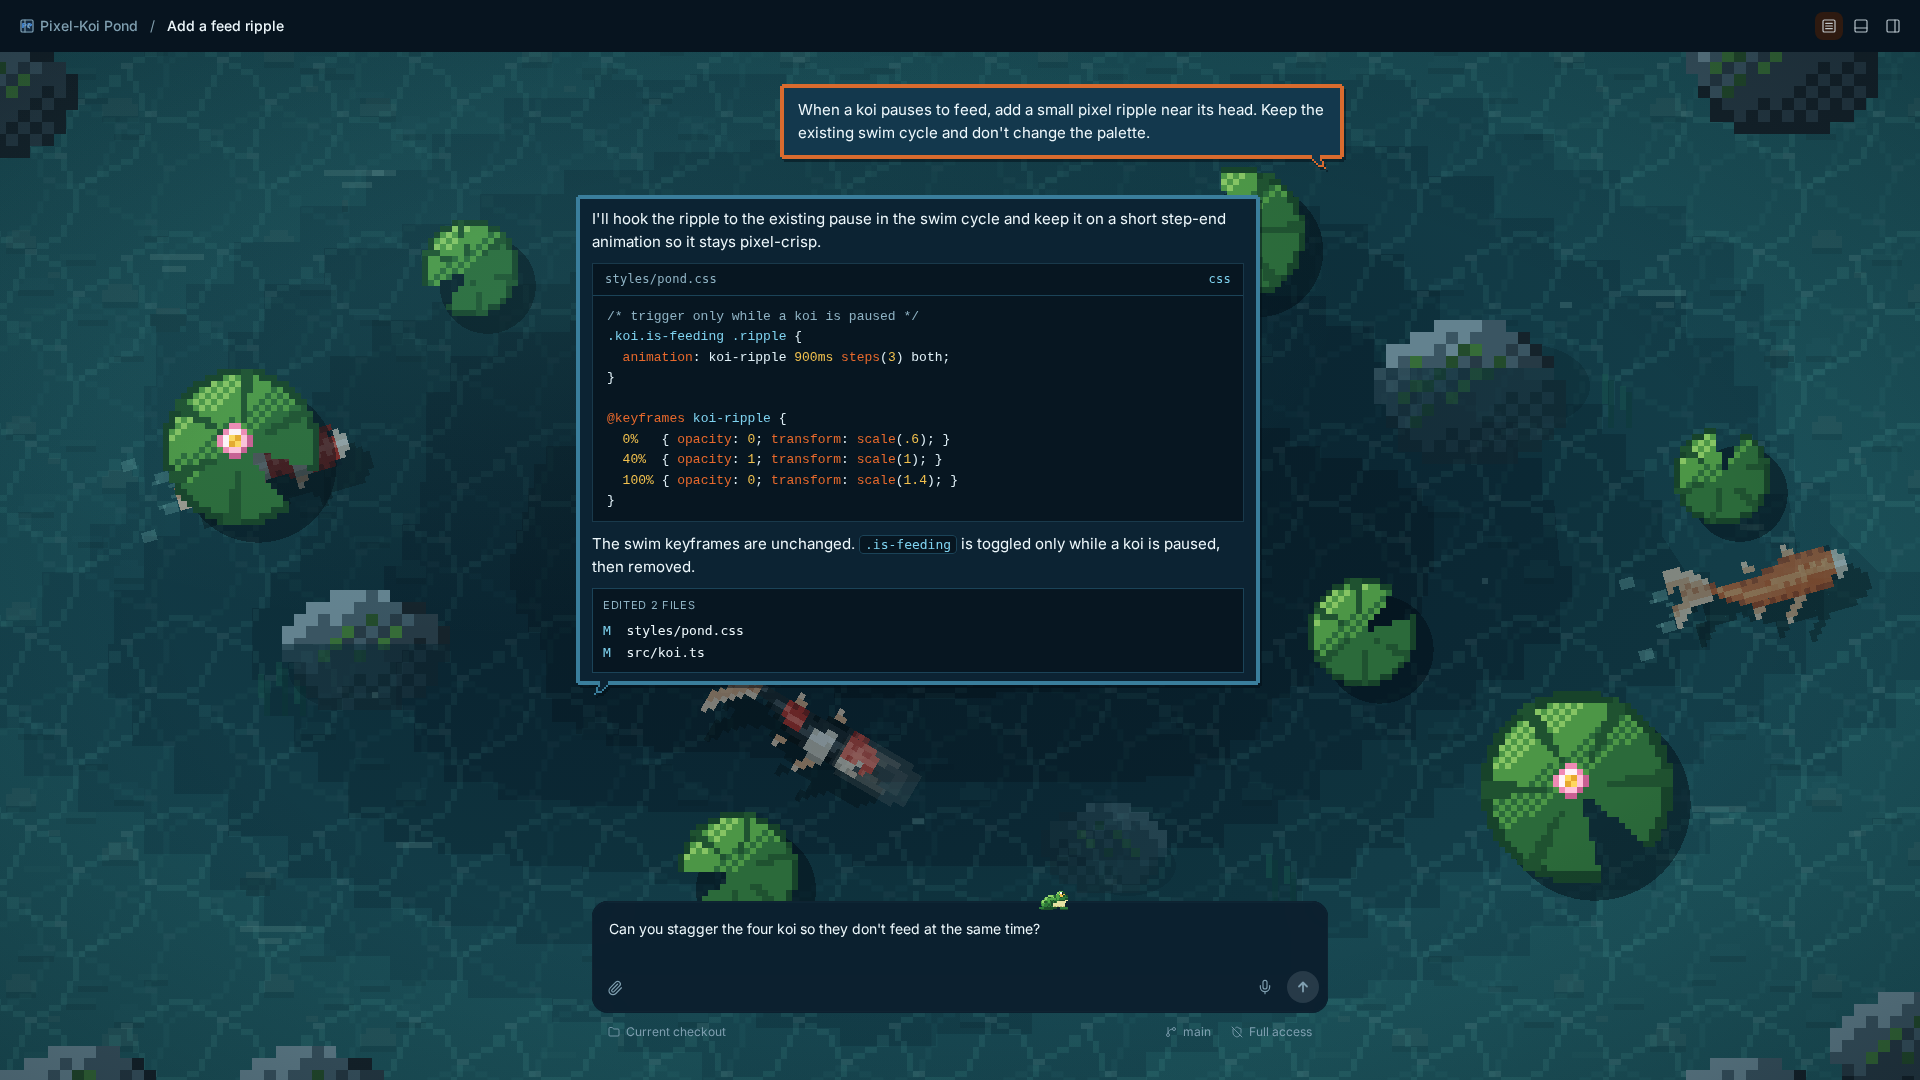
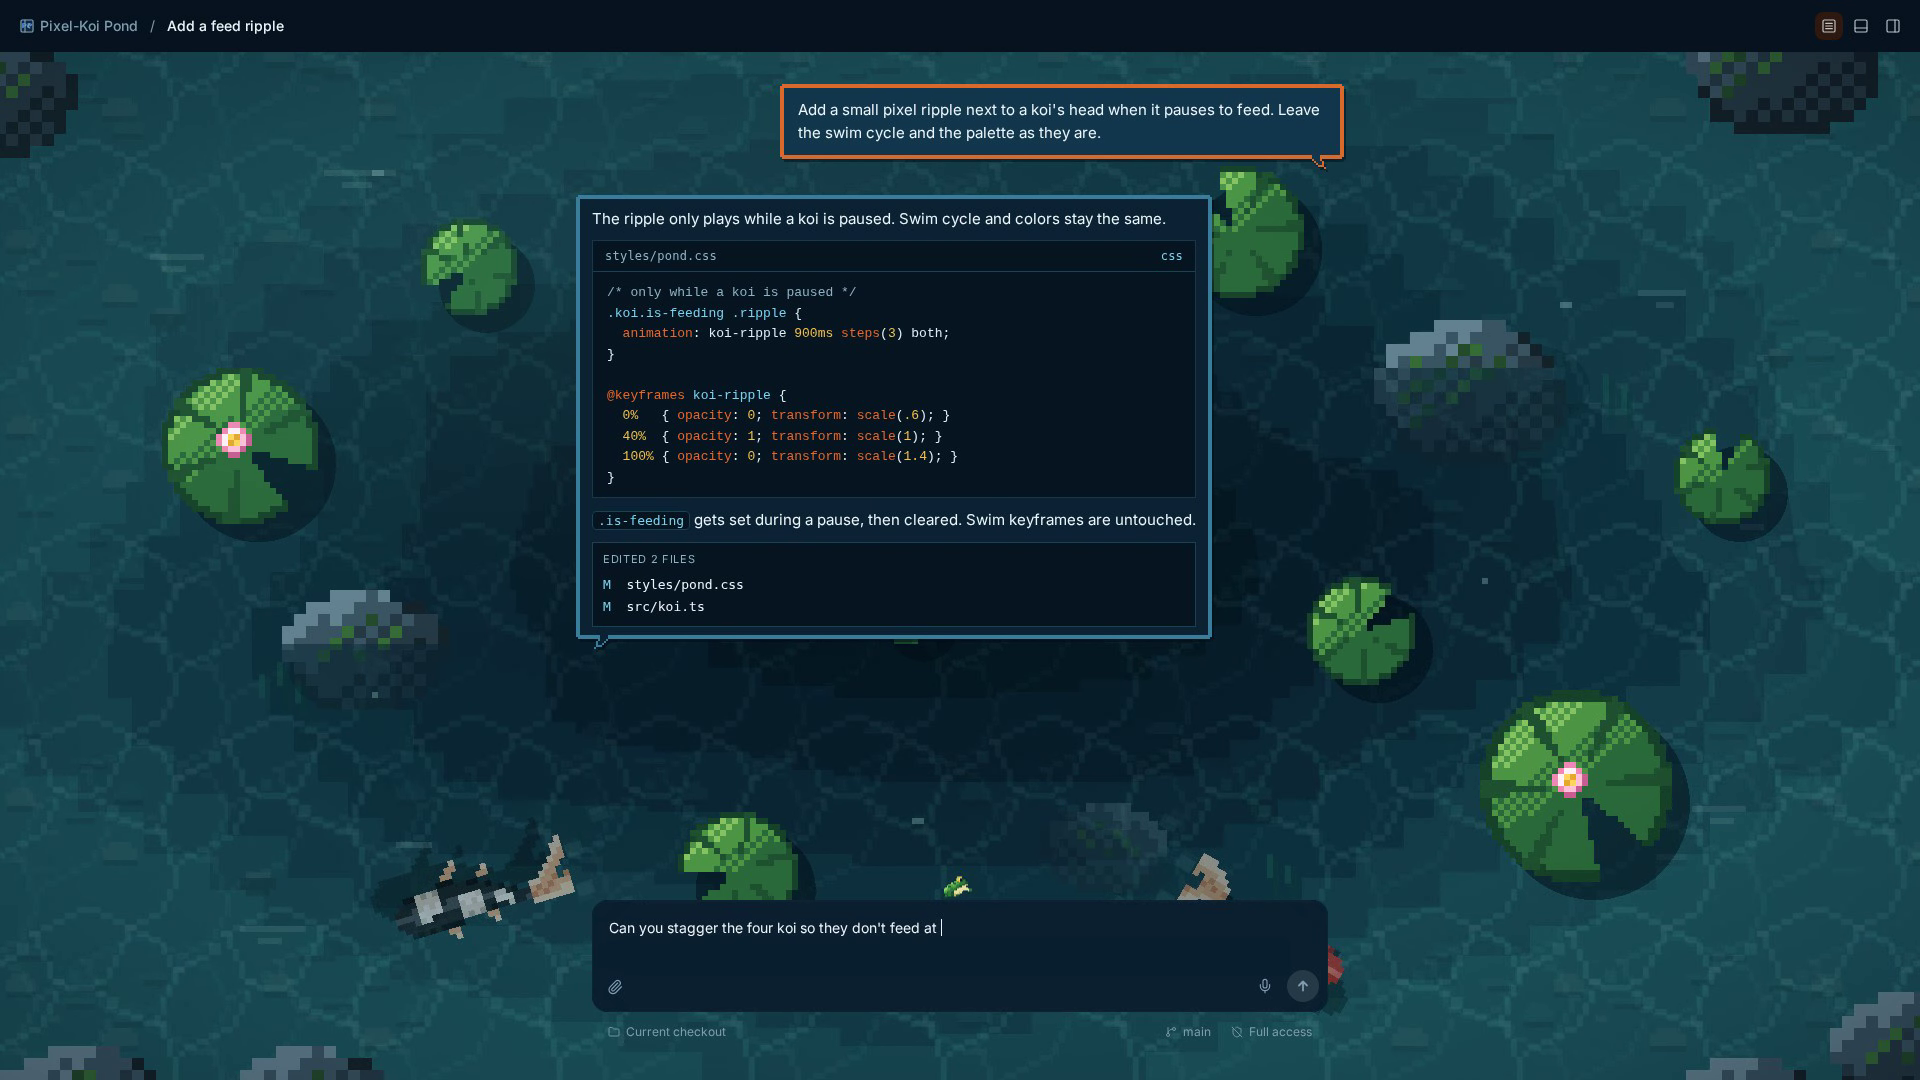
docs: zoomed typing preview and plainer README

diff --git a/README.md b/README.md
@@ -1,72 +1,31 @@
-<div align="center">
+# Pixel Koi Pond
 
-  <img src="pixel-koi-pond-icon.svg" alt="Pixel-Koi Pond pixel-art koi logo" width="144" />
-
-# Pixel-Koi Pond
-
-**An animated pixel-art koi pond theme for [T3 Code](https://t3.codes)**
-
-Two variants, one lake: moody midnight water or bright jade shallows.
+A pixel-art theme for [T3 Code](https://t3.codes). Koi swim behind the chat, and a small frog follows your cursor while you type.
 
 ![Pixel Koi Pond Theme for T3 Code](assets/preview.gif)
 
-![Dark](https://img.shields.io/badge/variant-dark-0b1a24?style=for-the-badge)
-![Light](https://img.shields.io/badge/variant-light-7fd1b9?style=for-the-badge)
-![T3 Code](https://img.shields.io/badge/for-T3%20Code-ff6b4a?style=for-the-badge)
+It comes in two versions: a dark one with night water and a light one with shallow green water.
 
-</div>
+| Dark (`pixelkoi`) | Light (`pixelkoi-light`) |
+| --- | --- |
+| ![Dark version](assets/dark.png) | ![Light version](assets/light.png) |
 
----
+## Files
 
-## ✨ Features
+- [`pixel-koi-pond.json`](pixel-koi-pond.json) is the dark theme, id `pixelkoi`.
+- [`pixel-koi-pond-light.json`](pixel-koi-pond-light.json) is the light theme, id `pixelkoi-light`.
 
-- 🐟 **Animated pixel koi** that swim around your workspace
-- 🪨 **Pixel-art rocks and ripples** for a calm, cozy pond vibe
-- 🌙 **Dark variant** with deep midnight water
-- ☀ **Light variant** with brighter jade shallows and light interface surfaces
-- 💬 Designed to look great in the **chat area**, code blocks, and composer
+## Install
 
-## 🖼 Screenshots
+In T3 Code, open **Settings → Appearance → Import** and pick one of the JSON files.
 
-<table>
-  <tr>
-    <th>🌙 Dark — <code>pixelkoi</code></th>
-    <th>☀ Light — <code>pixelkoi-light</code></th>
-  </tr>
-  <tr>
-    <td><img src="assets/dark.png" alt="Pixel-Koi Pond dark" /></td>
-    <td><img src="assets/light.png" alt="Pixel-Koi Pond light" /></td>
-  </tr>
-</table>
-
-## 🎨 Variants
-
-| Variant | Theme ID | File |
-| --- | --- | --- |
-| 🌙 Dark | `pixelkoi` | [`pixel-koi-pond.json`](pixel-koi-pond.json) |
-| ☀ Light | `pixelkoi-light` | [`pixel-koi-pond-light.json`](pixel-koi-pond-light.json) |
-
-## 📦 Install
-
-### Option 1: Import in the app
-
-1. Open T3 Code.
-2. Go to **Settings → Appearance → Import**.
-3. Select `pixel-koi-pond.json` or `pixel-koi-pond-light.json`.
-
-### Option 2: Manual
-
-Copy a JSON file into `~/.t3/userdata/themes/`, then select its ID:
+You can also copy the file into `~/.t3/userdata/themes/` and switch to it from the terminal:
 
 ```sh
-t3 theme set pixelkoi
-t3 theme set pixelkoi-light
+t3 theme set pixelkoi        # dark
+t3 theme set pixelkoi-light  # light
 ```
 
 ---
 
-<div align="center">
-
-Made with 🎏 by [@kanigaraa](https://github.com/kanigaraa)
-
-</div>
+Made by [@kanigaraa](https://github.com/kanigaraa).
